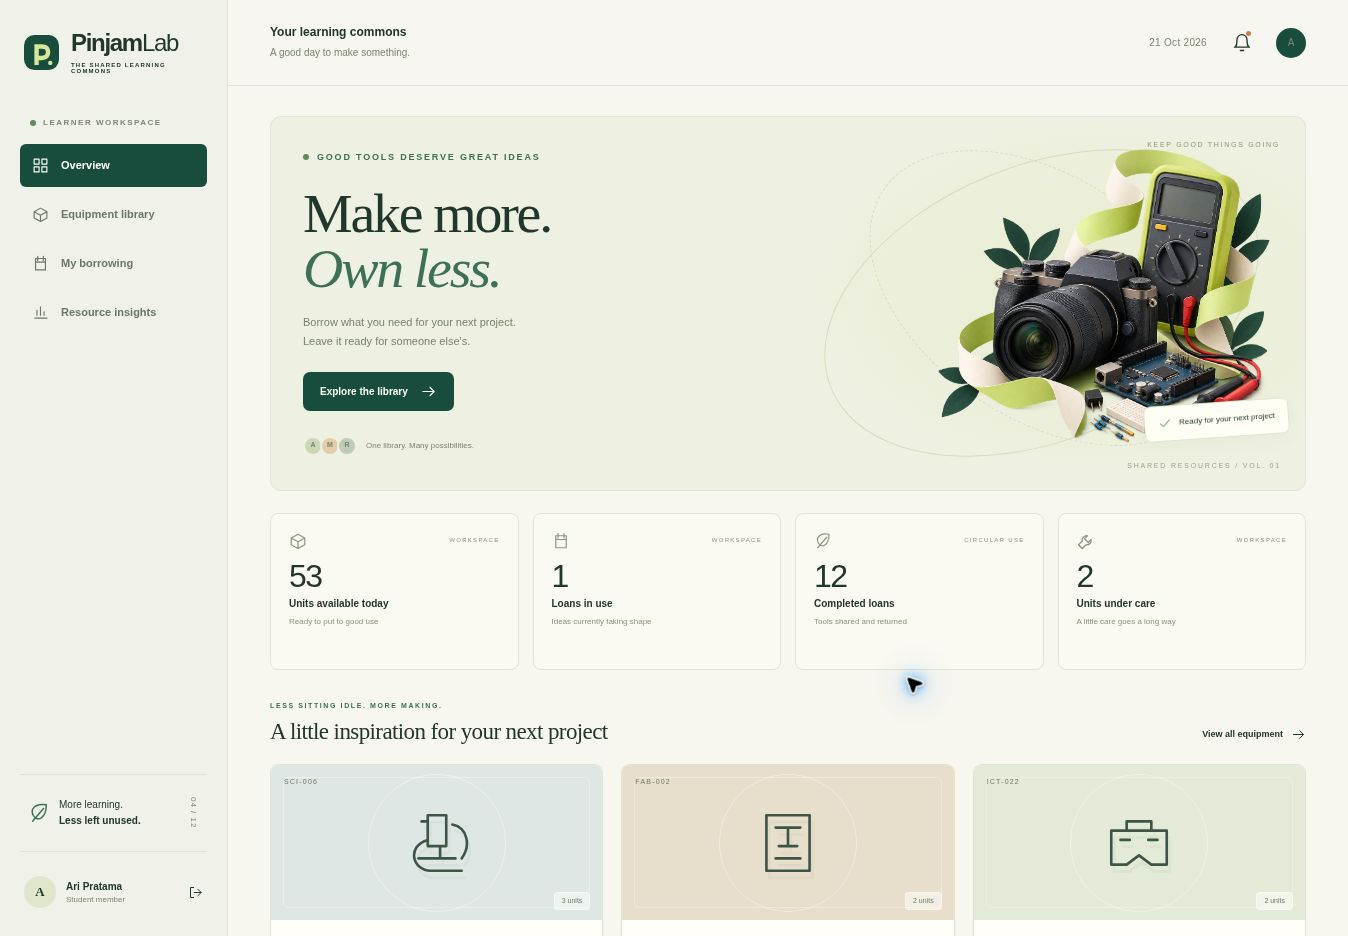
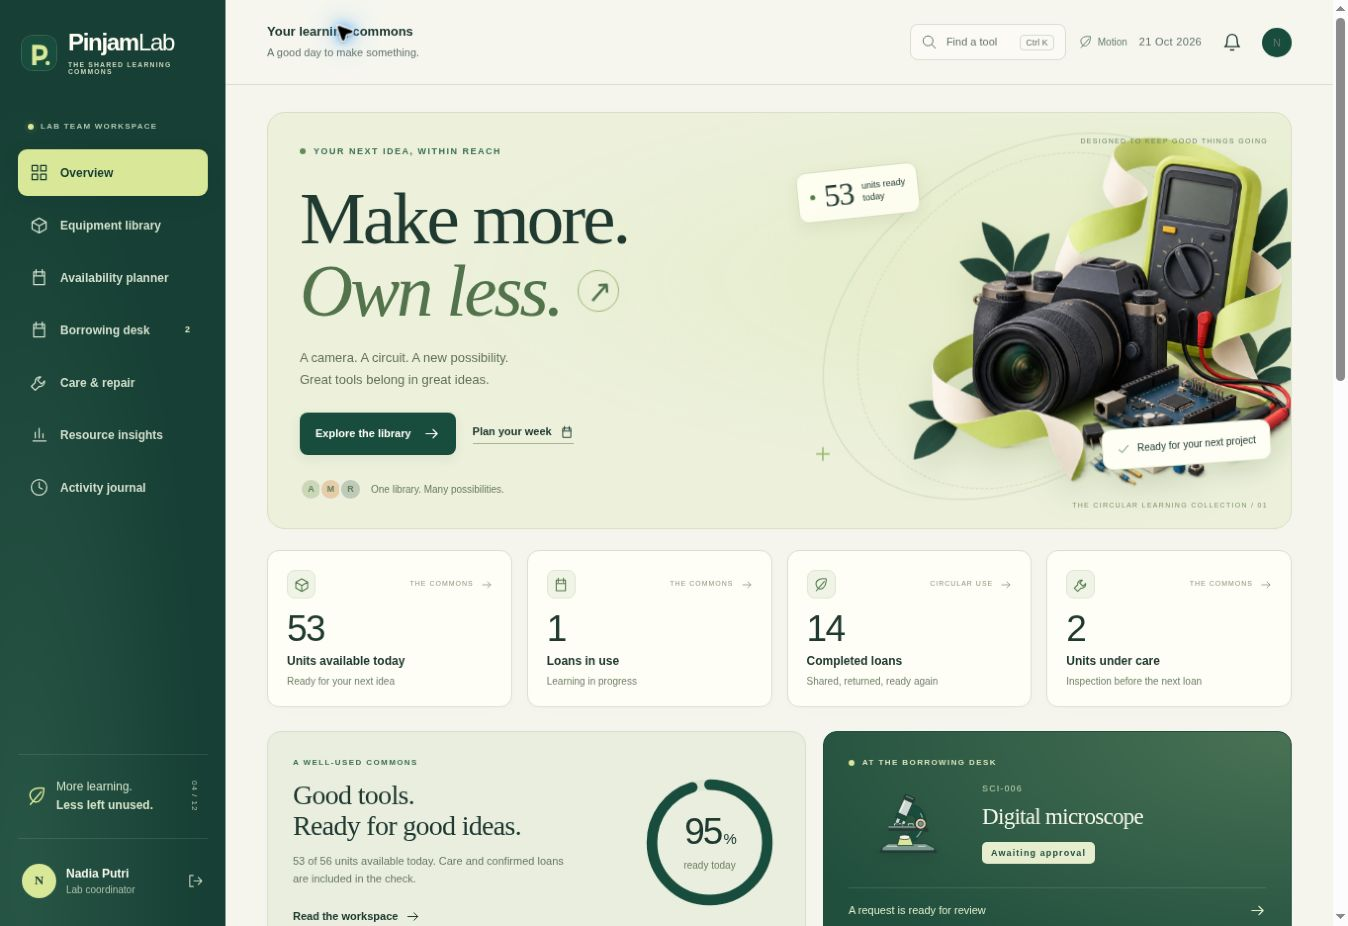
Show the revised illustrated workspace and readiness dashboard

diff --git a/docs/screenshots/README.md b/docs/screenshots/README.md
@@ -1,5 +1,5 @@
 # Application capture
 
-`dashboard.jpg` is a capture of the working PinjamLab learner workspace. Names, equipment records, loan totals and condition histories in the demonstration are illustrative records. They are not university pilot results.
+`dashboard.jpg` is a capture of the working PinjamLab laboratory workspace. Names, equipment records, loan totals and condition histories in the demonstration are illustrative records. They are not university pilot results.
 
 The submitted interface runs from the source in this repository. The full competition package contains the presentation, video and scoped verification notes.
